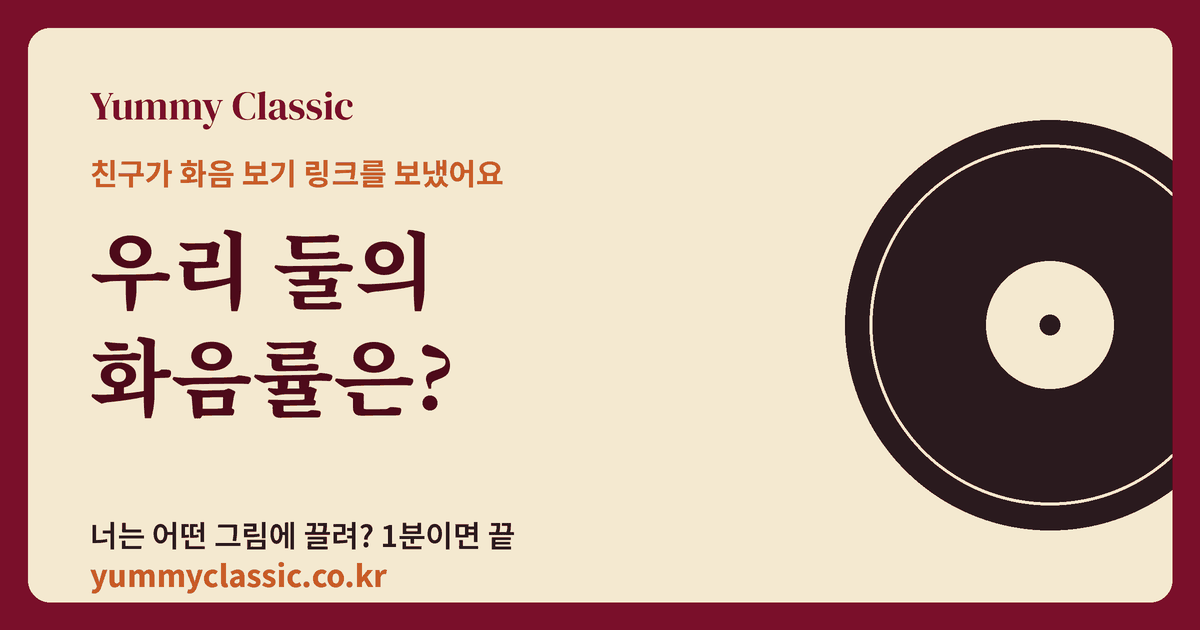
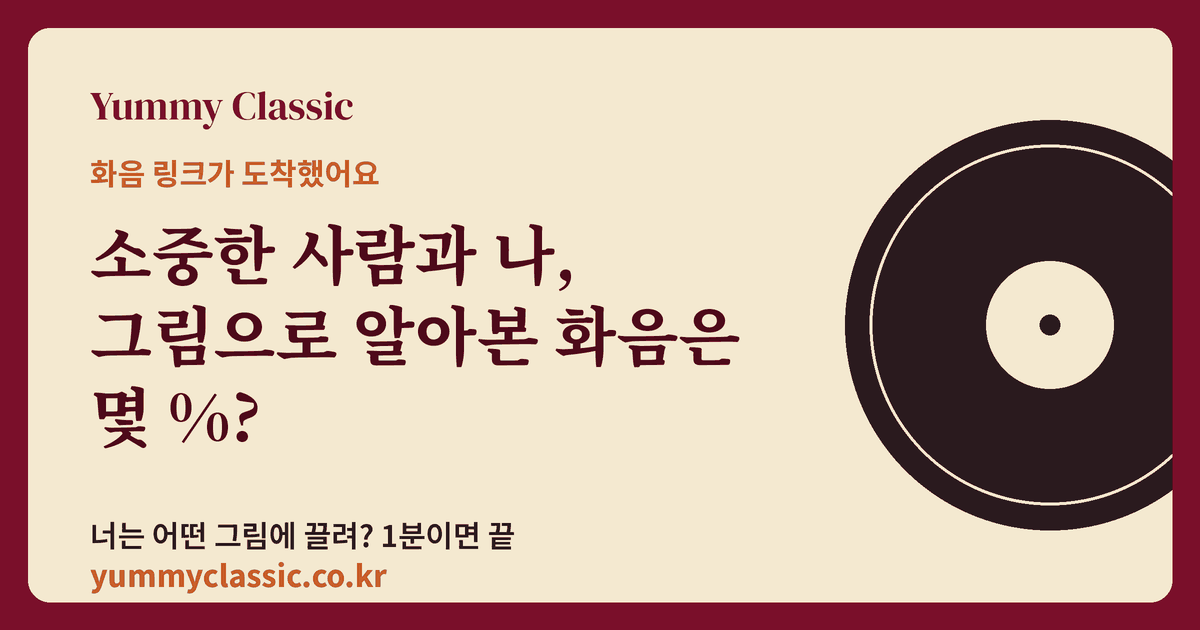
Headline '소중한 사람과 나, 그림으로 알아본 화음은 몇 %?' on the share box, messages and link previews; neutral 'sender' instead of 'friend'
Claude-Session: https://claude.ai/code/session_01TRYBqAiNpHtazXAtHncujs

Changed region(s): [[0.0617, 0.3619, 0.6167, 0.7238], [0.0617, 0.2413, 0.4317, 0.3016], [0.5858, 0.573, 0.6167, 0.6032]]

diff --git a/index.html b/index.html
@@ -1299,7 +1299,7 @@
       shareEyebrow: 'Share today’s classical',
       shareSub: '결과를 링크로 보낼 수 있어요. 링크를 연 친구에게도 같은 카드와 메뉴가 보여요.',
       shareText: '오늘 나의 클래식은 {era} — ‘{type}’. 그림으로 고르는 냠냠클래식, 너도 해 봐!',
-      sharedBanner: '친구가 보낸 오늘의 클래식이에요.',
+      sharedBanner: '소중한 분이 보낸 오늘의 클래식이에요.',
       imgKicker: 'TODAY’S CLASSICAL',
       ig1Tease: '이 그림들로 고른 나의 오늘의 클래식은? →', ig2Kicker: '나의 오늘의 클래식은',
       ig3Cta: '당신의 오늘의 클래식은 어떤 맛인가요?',
@@ -5471,18 +5471,18 @@
       fbPhYes: '어떤 점이 맞았는지 한 줄 남겨 주세요 (선택)', fbPhNo: '어떤 점이 달랐는지 한 줄 남겨 주세요 (선택)',
       fbSend: '보내기', fbThanks: '고마워요! 남겨 주신 의견으로 더 잘 맞게 고칠게요.',
       pctLine: '나와 같은 유형은 전체의 {p}% · 지금까지 {n}명이 해봤어요',
-      vsTop: '친구랑 화음 보기', storyTop: '스토리에 올리기',
-      vsInviteT: '친구랑 화음 보기', vsInviteS: '링크를 받은 친구가 그림을 고르면, 두 분의 화음률이 나와요.',
-      vsSend: '화음 링크 보내기', vsShareText: '우리 둘의 화음은 어떨까? 그림 몇 장만 골라 봐!',
-      vsBanner: '‘{t}’ 친구가 화음 보기 링크를 보냈어요. 아래 그림을 고르면 두 분의 화음률이 나와요.',
-      vsKick: '친구와 나의 화음률', vsFriend: '친구', vsMe: '나', vsShared: '둘 다 고른 그림 {n}점',
-      vsSendBack: '이 화음 결과 보내기', vsBackText: '우리 둘의 화음률 {p}% — {l}. 너도 나랑 해볼래?',
+      vsTop: '소중한 사람과 화음 보기', storyTop: '스토리에 올리기',
+      vsInviteT: '소중한 사람과 나, 그림으로 알아본 화음은 몇 %?', vsInviteS: '링크를 받은 분이 그림을 고르면, 두 분의 화음과 화음률이 나와요.',
+      vsSend: '화음 링크 보내기', vsShareText: '소중한 사람과 나, 그림으로 알아본 화음은 몇 %? 그림 몇 장만 골라 주세요.',
+      vsBanner: '‘{t}’ 유형인 분이 화음 링크를 보냈어요. 소중한 사람과 나, 그림으로 알아본 화음은 몇 %? 아래 그림을 골라 보세요.',
+      vsKick: '소중한 사람과 나의 화음률', vsFriend: '보낸 분', vsMe: '나', vsShared: '둘 다 고른 그림 {n}점',
+      vsSendBack: '이 화음 결과 보내기', vsBackText: '소중한 사람과 나, 그림으로 알아본 화음은 {p}% — {l}. 당신과의 화음도 궁금해요.',
       vsLabels: ['완전한 화음 · 같은 그림 앞에서 멈춰 서는 사이', '아름다운 화음 · 취향이 잘 어울리는 사이', '잔잔한 하모니 · 서로의 곡이 궁금한 사이', '서로 다른 두 선율 · 그래서 더 풍성한 사이'],
       vsCopied: '링크를 복사했어요. 카카오톡 대화방에 붙여 넣어 보내 보세요.',
       shKakao: '카카오톡으로 보내기', shLine: '라인으로 보내기', shFb: '페이스북으로 공유하기', shX: 'X로 공유하기',
       shareImage: '인스타그램 피드로 공유하기', shareNative: '다른 앱으로 공유하기',
       shareStory: '인스타그램 스토리로 공유하기', storyKick: '나의 오늘 그림 유형', storyListen: '오늘 들을 곡',
-      storyCta: '나와의 화음률은 몇 %일까?', storyTap: '이미지가 준비됐어요. 한 번 더 누르면 바로 공유돼요.',
+      storyCta: '소중한 사람과 나의 화음은 몇 %?', storyTap: '이미지가 준비됐어요. 한 번 더 누르면 바로 공유돼요.',
       storySaved: '이미지를 저장했어요. 인스타 스토리에 올려 보세요!',
     });
     Object.assign(I18N.en, {
@@ -5490,18 +5490,18 @@
       fbPhYes: 'What felt right? One line (optional)', fbPhNo: 'What felt off? One line (optional)',
       fbSend: 'Send', fbThanks: 'Thank you! We’ll use this to make the result fit better.',
       pctLine: '{p}% of people share your type · {n} people so far',
-      vsTop: 'See your harmony with a friend', storyTop: 'Post to your story',
-      vsInviteT: 'See your harmony with a friend', vsInviteS: 'When your friend picks their paintings, you’ll both see your harmony rate.',
-      vsSend: 'Send a harmony link', vsShareText: 'How do our tastes harmonize? Pick a few paintings!',
-      vsBanner: 'Your friend (“{t}”) sent you a harmony link. Pick the paintings below to see your harmony rate.',
-      vsKick: 'Your harmony rate', vsFriend: 'Friend', vsMe: 'Me', vsShared: '{n} painting(s) you both picked',
-      vsSendBack: 'Share this harmony', vsBackText: 'Our harmony rate is {p}% — {l}. Want to try with me?',
+      vsTop: 'See your harmony with someone special', storyTop: 'Post to your story',
+      vsInviteT: 'You and someone special: what % harmony do your paintings show?', vsInviteS: 'When they pick their paintings, you’ll both see your harmony and its rate.',
+      vsSend: 'Send a harmony link', vsShareText: 'You and me: what % harmony do our paintings show? Pick a few paintings.',
+      vsBanner: 'Someone special (“{t}”) sent you a harmony link. Pick the paintings below to see your harmony rate.',
+      vsKick: 'Your harmony rate', vsFriend: 'Sender', vsMe: 'Me', vsShared: '{n} painting(s) you both picked',
+      vsSendBack: 'Share this harmony', vsBackText: 'Our harmony, found through paintings: {p}% — {l}. I’d love to see ours too.',
       vsLabels: ['Perfect harmony', 'Beautiful harmony', 'Gentle harmony', 'Two different melodies, richer together'],
       vsCopied: 'Link copied. Paste it into a chat to send.',
       shKakao: 'Send via KakaoTalk', shLine: 'Send via LINE', shFb: 'Share on Facebook', shX: 'Share on X',
       shareImage: 'Share to Instagram feed', shareNative: 'Share with another app',
       shareStory: 'Share to Instagram Story', storyKick: 'MY PAINTING TYPE TODAY', storyListen: 'Today’s listening',
-      storyCta: 'What’s our harmony rate?', storyTap: 'Your image is ready. Tap once more to share.',
+      storyCta: 'You and me: what % harmony?', storyTap: 'Your image is ready. Tap once more to share.',
       storySaved: 'Image saved. Post it to your story!',
     });
     Object.assign(I18N.ja, {
@@ -5509,18 +5509,18 @@
       fbPhYes: 'どこが合っていたか一言どうぞ(任意)', fbPhNo: 'どこがちがったか一言どうぞ(任意)',
       fbSend: '送る', fbThanks: 'ありがとうございます!いただいた声で、もっと合うように直します。',
       pctLine: '同じタイプは全体の{p}% · これまで{n}人が参加',
-      vsTop: '友だちとの和音を見る', storyTop: 'ストーリーに載せる',
-      vsInviteT: '友だちとの和音を見る', vsInviteS: 'リンクを受け取った友だちが絵を選ぶと、ふたりの和音率が出ます。',
-      vsSend: '和音リンクを送る', vsShareText: 'ふたりの和音はどんな響き?絵を数枚選んでみて!',
-      vsBanner: '「{t}」の友だちから和音リンクが届きました。下の絵を選ぶと、ふたりの和音率がわかります。',
-      vsKick: '友だちと私の和音率', vsFriend: '友だち', vsMe: '私', vsShared: 'ふたりとも選んだ絵 {n}点',
-      vsSendBack: 'この和音を送る', vsBackText: 'ふたりの和音率は{p}% — {l}。私ともやってみる?',
+      vsTop: '大切な人との和音を見る', storyTop: 'ストーリーに載せる',
+      vsInviteT: '大切な人と私、絵でわかる和音は何%?', vsInviteS: 'リンクを受け取った方が絵を選ぶと、ふたりの和音と和音率が出ます。',
+      vsSend: '和音リンクを送る', vsShareText: '大切な人と私、絵でわかる和音は何%?絵を数枚選んでください。',
+      vsBanner: '「{t}」タイプの方から和音リンクが届きました。下の絵を選ぶと、ふたりの和音率がわかります。',
+      vsKick: '大切な人と私の和音率', vsFriend: '送った方', vsMe: '私', vsShared: 'ふたりとも選んだ絵 {n}点',
+      vsSendBack: 'この和音を送る', vsBackText: '大切な人と私、絵でわかる和音は{p}% — {l}。あなたとの和音も知りたいです。',
       vsLabels: ['完全な和音', '美しい和音', 'やさしいハーモニー', 'ちがう二つの旋律、だから豊か'],
       vsCopied: 'リンクをコピーしました。トークに貼り付けて送ってください。',
       shKakao: 'カカオトークで送る', shLine: 'LINEで送る', shFb: 'Facebookでシェア', shX: 'Xでシェア',
       shareImage: 'Instagramのフィードでシェア', shareNative: 'ほかのアプリでシェア',
       shareStory: 'Instagramのストーリーでシェア', storyKick: '今日の私の絵のタイプ', storyListen: '今日聴く曲',
-      storyCta: '私との和音率は何%?', storyTap: '画像の準備ができました。もう一度押すと共有できます。',
+      storyCta: '大切な人と私の和音は何%?', storyTap: '画像の準備ができました。もう一度押すと共有できます。',
       storySaved: '画像を保存しました。ストーリーに載せてみて!',
     });
     const YC_MATCH_ICON = '<svg class="yc-ic" viewBox="0 0 24 24" fill="none" stroke="currentColor" stroke-width="1.8" stroke-linecap="round" aria-hidden="true"><circle cx="12" cy="12" r="6.3"/><circle cx="12" cy="12" r="2"/><g transform="translate(3.6 5.6) rotate(-8)"><path d="M-1.6 0v3.2M0 0v3.2M1.6 0v3.2M-1.6 3.2c0 1.8 3.2 1.8 3.2 0M0 4.6V12"/></g><g transform="translate(20.4 5.6) rotate(8)"><path d="M-1.6 0v3.2M0 0v3.2M1.6 0v3.2M-1.6 3.2c0 1.8 3.2 1.8 3.2 0M0 4.6V12"/></g></svg>';

diff --git a/src/worker.js b/src/worker.js
@@ -185,11 +185,11 @@ const ADMIN_HASH = 'b549ab8e45bf613ffd6031b9aa8f32a0e0d85145dcb20eb4296c6c1ea851
 const SITE_LANGS = ['ko', 'en', 'ja'];
 const OG_TXT = {
   ko: { type: '나의 오늘 그림 유형은 ‘{t}’', typeDesc: '그림 몇 장만 고르면 오늘의 클래식이 나와요. 너는 어떤 그림에 끌려?',
-        match: '친구가 화음 보기 링크를 보냈어요', matchDesc: '그림 몇 장만 고르면 우리 둘의 화음률이 나와요.' },
+        match: '소중한 사람과 나, 그림으로 알아본 화음은 몇 %?', matchDesc: '화음 링크가 도착했어요. 그림 몇 장만 고르면 두 분의 화음과 화음률이 나와요.' },
   en: { type: 'My painting type today: “{t}”', typeDesc: 'Pick a few paintings and today’s classical finds you. Which one draws you?',
-        match: 'A friend sent you a harmony link', matchDesc: 'Pick a few paintings and see your harmony rate.' },
+        match: 'You and someone special: what % harmony do your paintings show?', matchDesc: 'A harmony link for you. Pick a few paintings to see your harmony and its rate.' },
   ja: { type: '今日の私の絵のタイプは「{t}」', typeDesc: '絵を数枚選ぶだけで、今日のクラシックが見つかります。',
-        match: '友だちから和音リンクが届きました', matchDesc: '絵を数枚選ぶだけで、ふたりの和音率がわかります。' },
+        match: '大切な人と私、絵でわかる和音は何%?', matchDesc: '和音リンクが届きました。絵を数枚選ぶと、ふたりの和音と和音率がわかります。' },
 };
 
 export class Store extends DurableObject {
